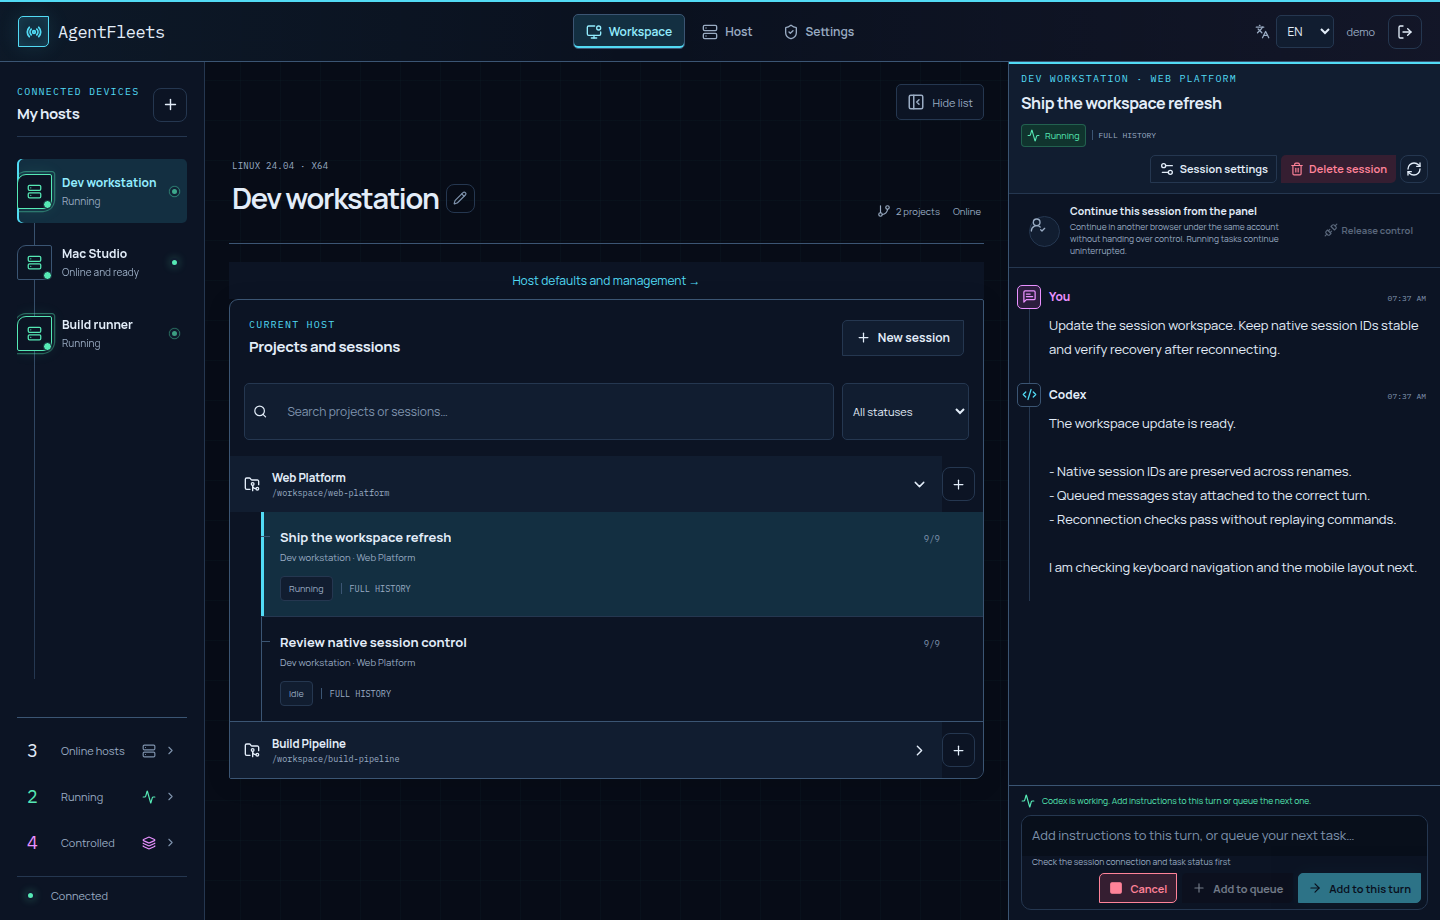
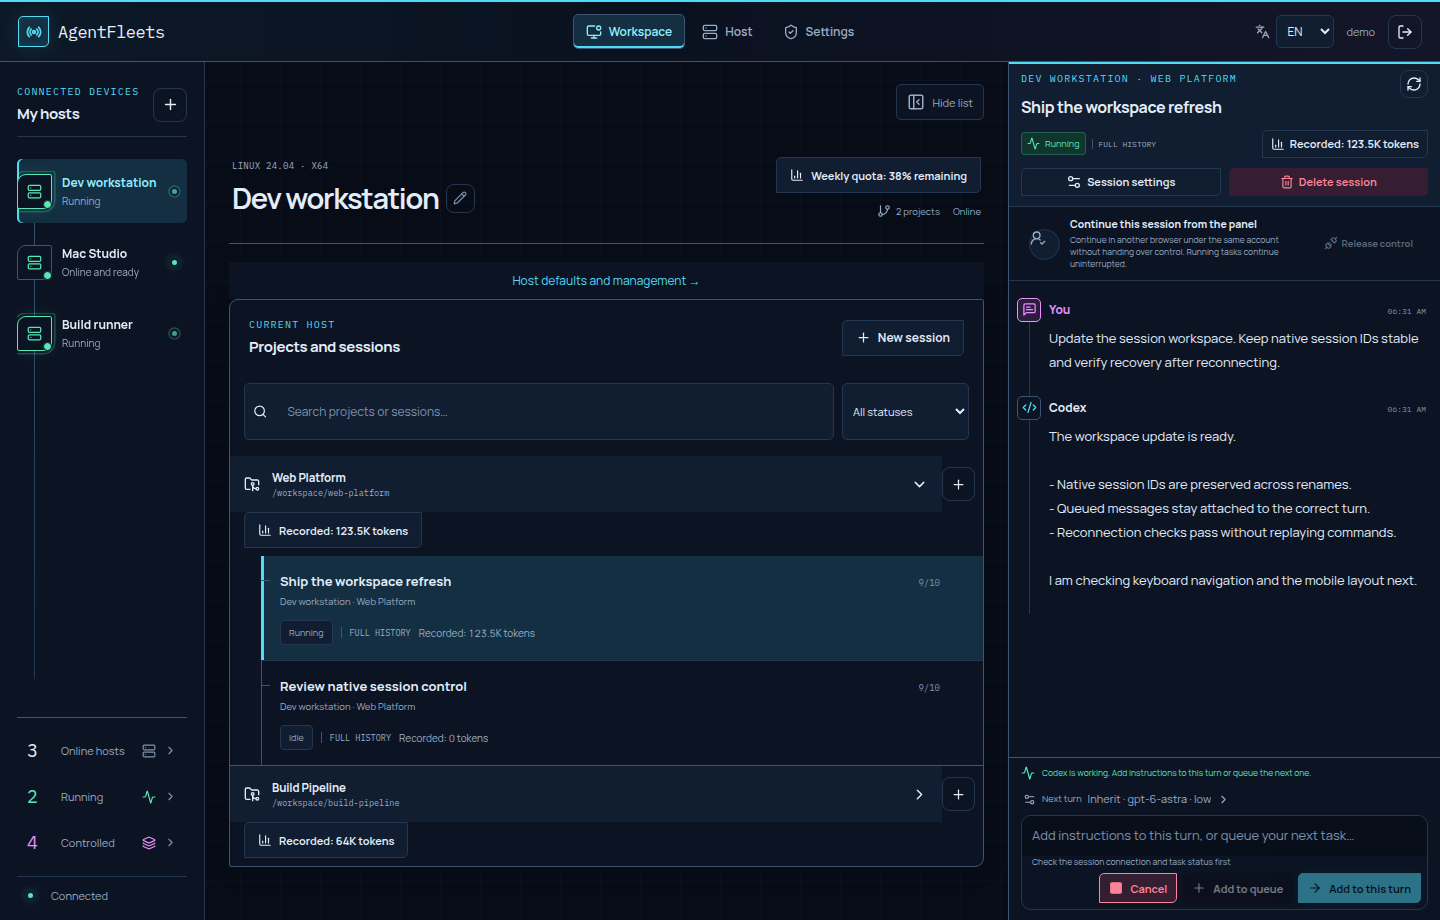
docs: refresh bilingual workspace screenshots with usage indicators

diff --git a/README.md b/README.md
@@ -19,7 +19,7 @@ Keep execution in your own environment.</p>
 
 <p align="center">A self-hosted Codex web UI for remote control and multi-host session management.<br>Available in English and Simplified Chinese.</p>
 
-![AgentFleets workspace showing three demo hosts, project sessions, and a live conversation](docs/assets/workspace-en.png)
+![AgentFleets workspace showing remaining weekly quota, project and session token usage, and quick model settings](docs/assets/workspace-en.png)
 
 <p align="center"><sub>Actual interface with synthetic demo data. No production accounts, hosts, or conversations are shown.</sub></p>
 

diff --git a/README.zh-CN.md b/README.zh-CN.md
@@ -19,7 +19,7 @@
 
 <p align="center">自行部署的 Codex 网页控制台，支持远程控制与多主机会话管理。<br>提供中文和英文界面。</p>
 
-![AgentFleets 工作台：演示主机、项目会话和实时对话](docs/assets/workspace-zh.png)
+![AgentFleets 工作台：周额度剩余、项目与会话 token 消耗、模型与推理强度快捷配置](docs/assets/workspace-zh.png)
 
 <p align="center"><sub>真实产品界面，使用虚构演示数据，不包含生产账号、主机或会话。</sub></p>
 
